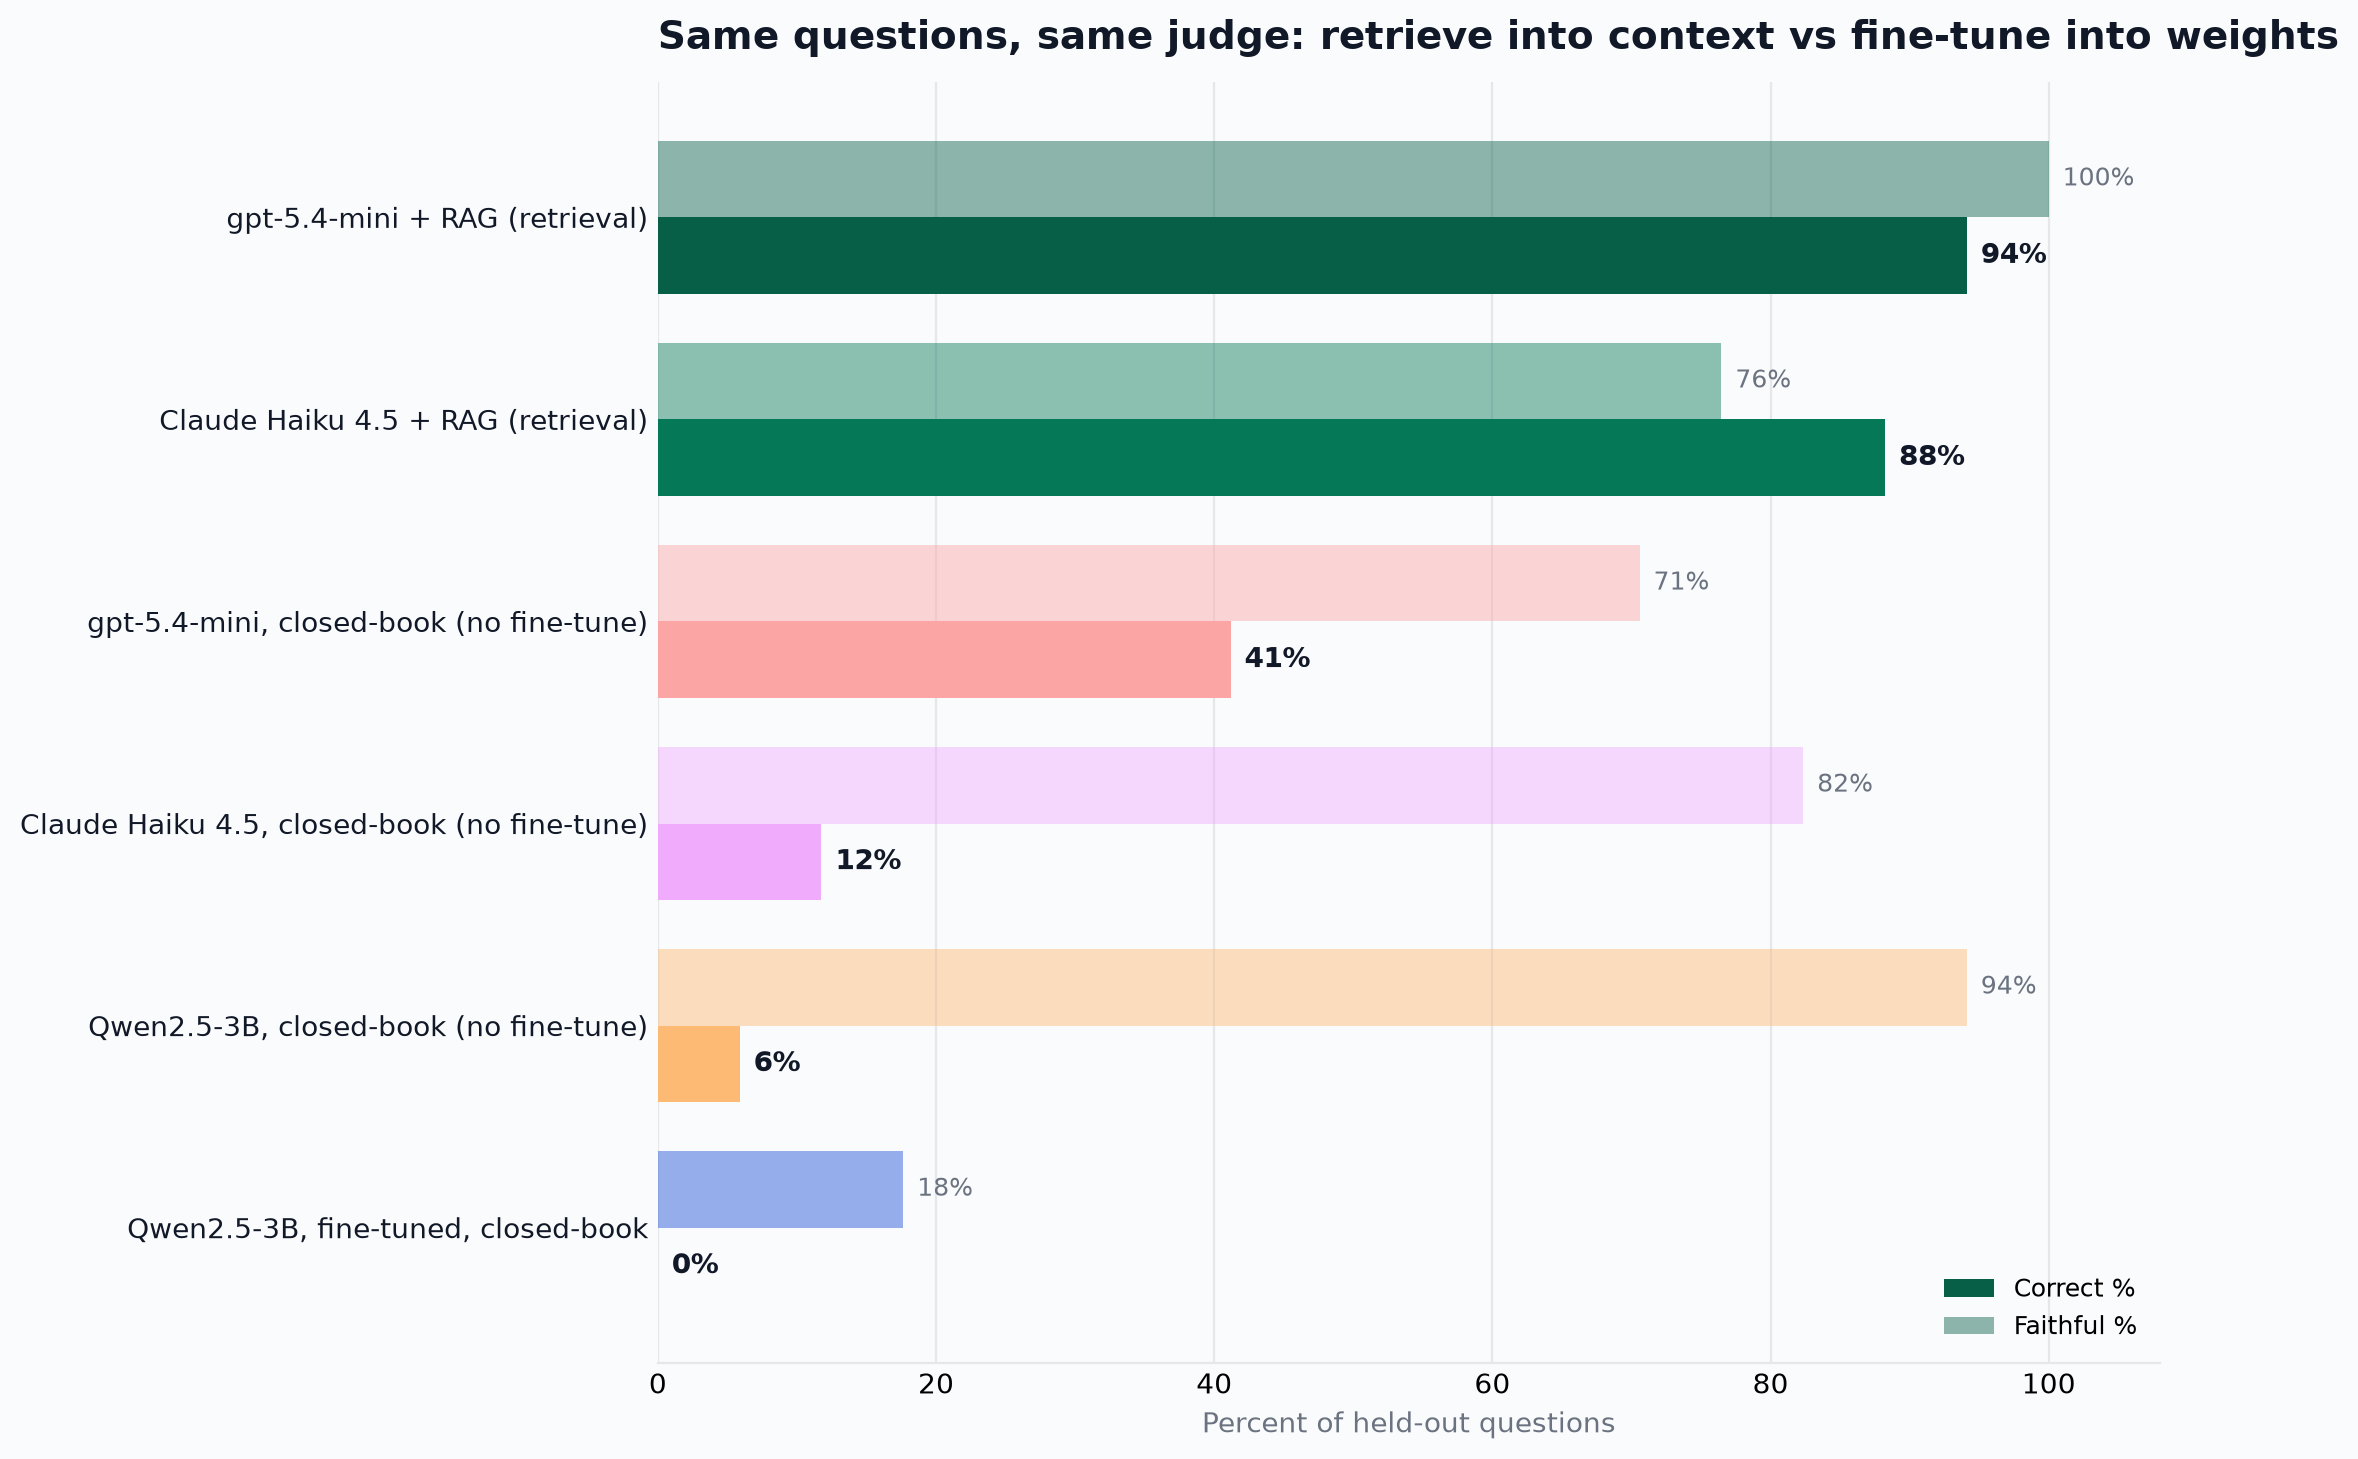
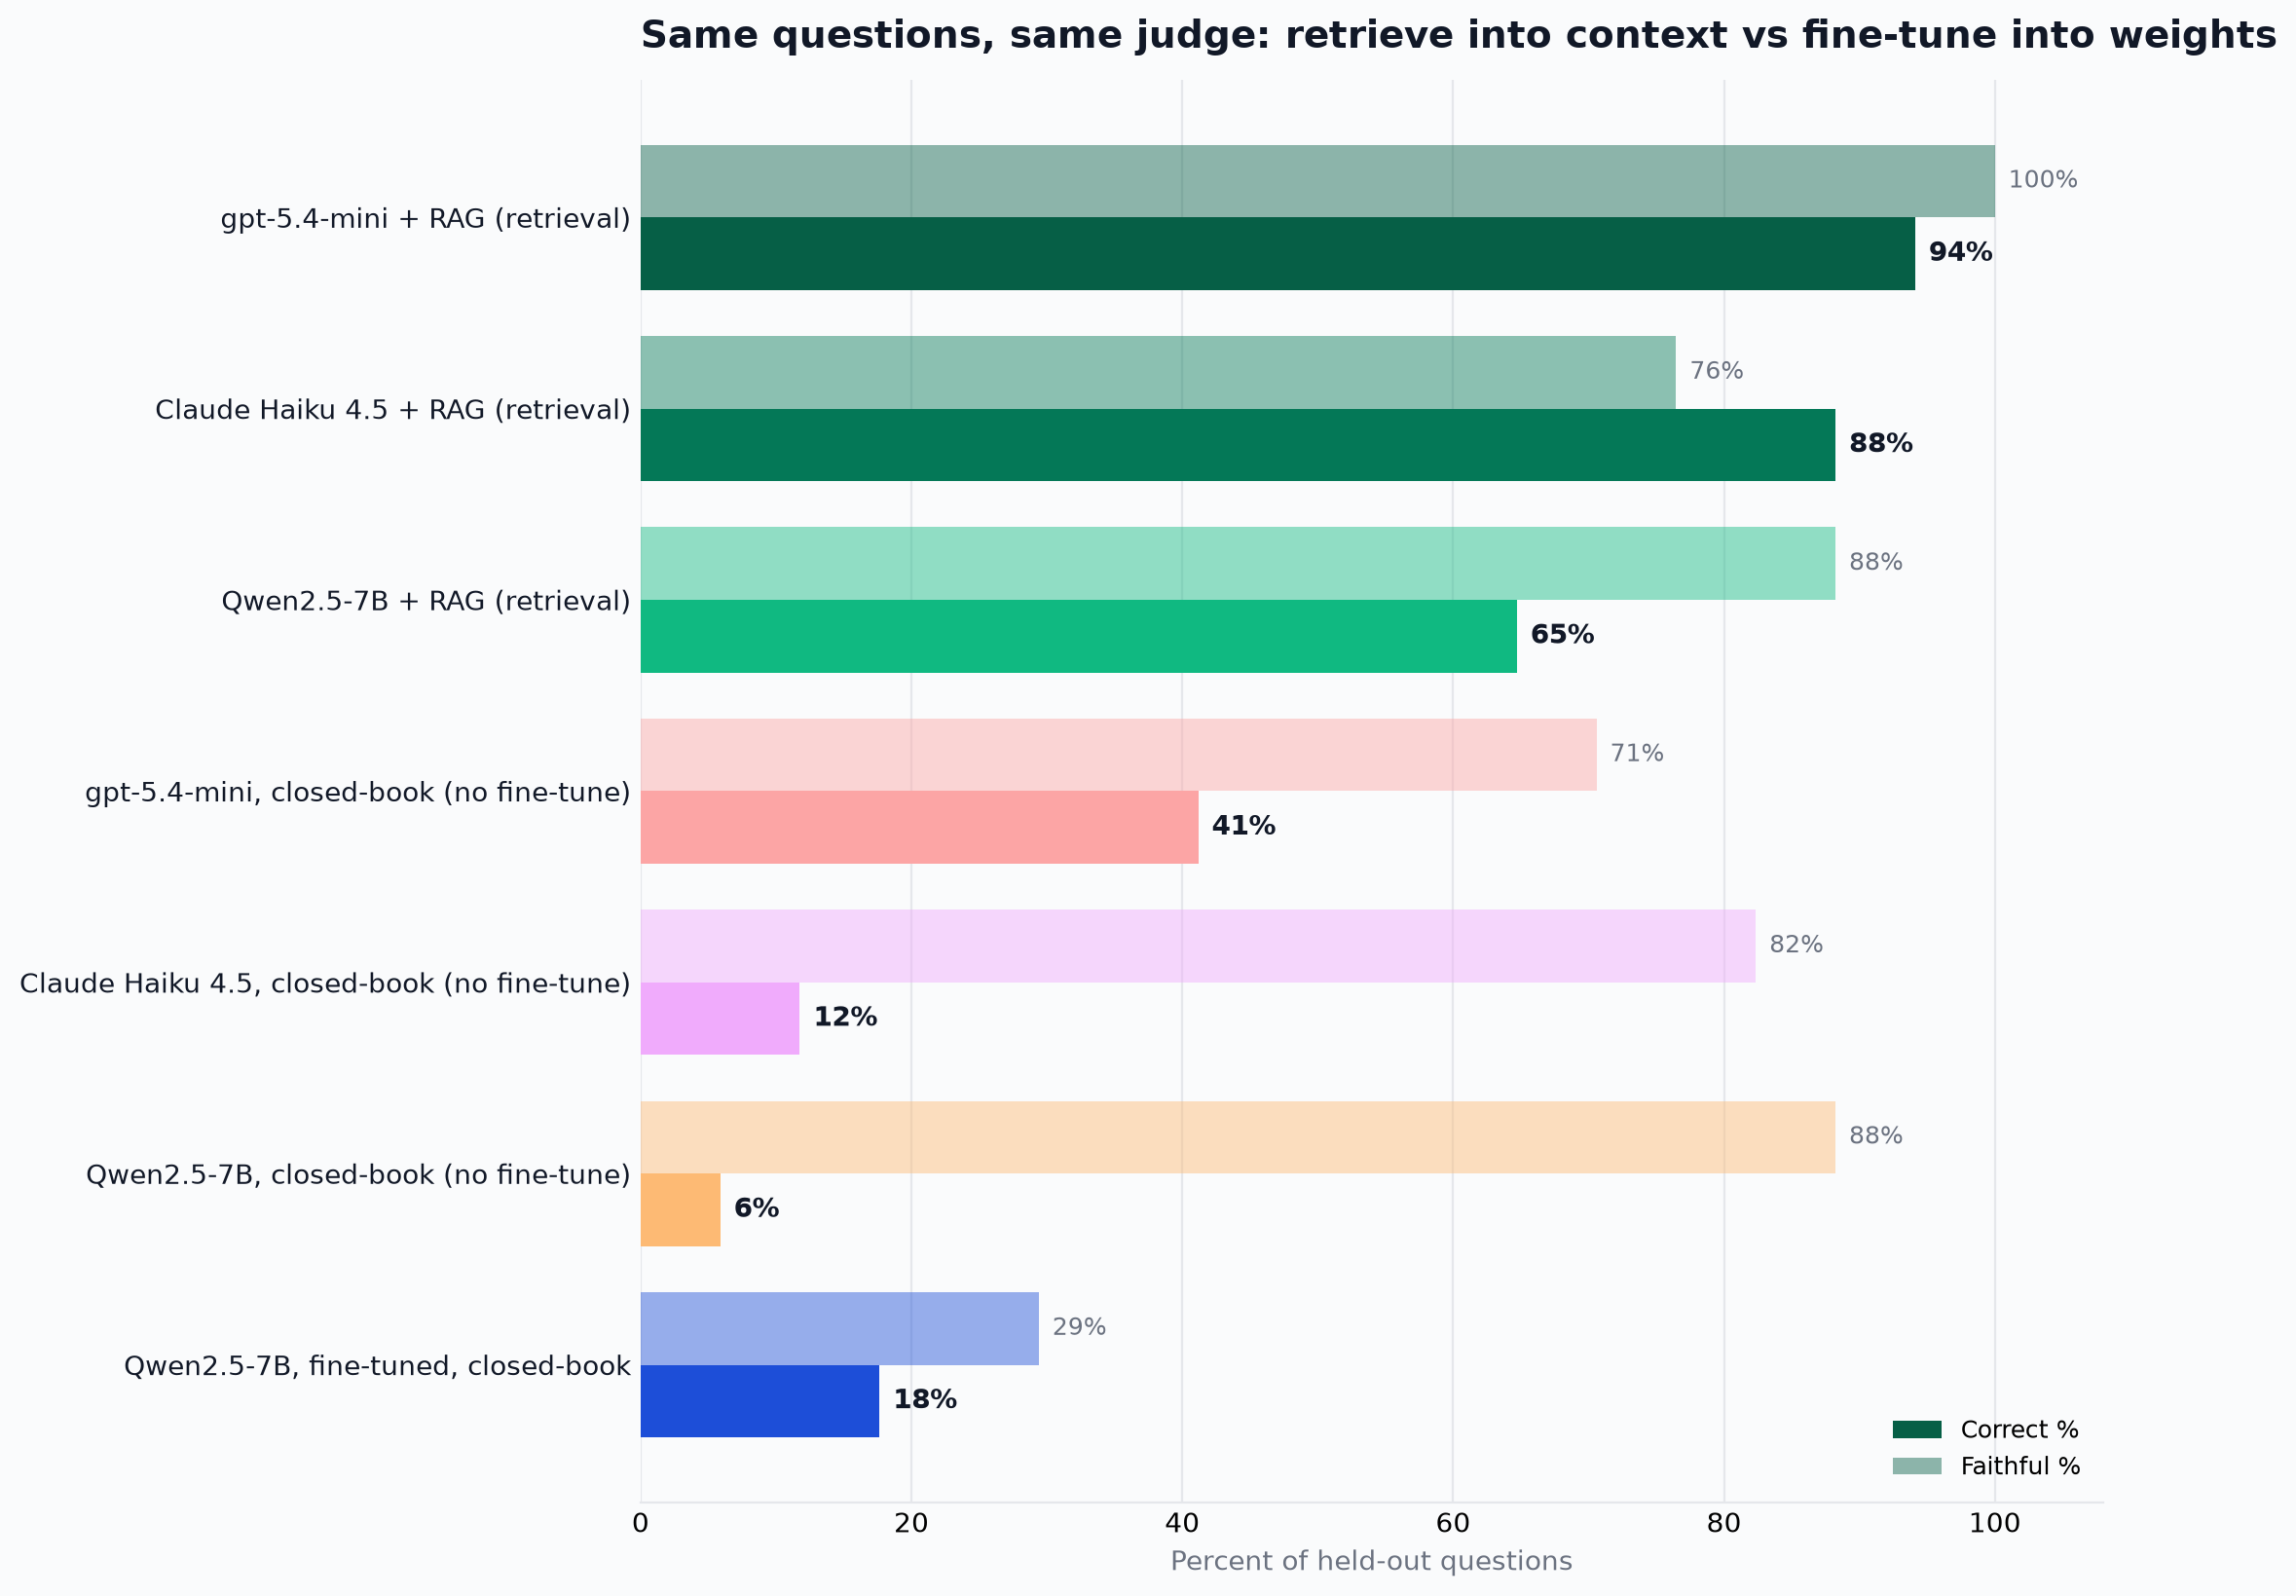
Use Qwen2.5-7B as the open model; add Qwen+RAG condition
3B was too weak to extract from long retrieved context (abstained). 7B is a fair open-model reader: RAG lifts it 6% to 65%. Fine-tuned closed-book still collapses faithfulness 88% to 29%. Adds the local_rag condition and shares the RAG-context helper.

diff --git a/eval_all.py b/eval_all.py
@@ -92,9 +92,64 @@ def gen_mlx(adapter):
              {"role": "user", "content": q["question"]}],
             tokenize=False, add_generation_prompt=True)
         try:
-            return generate(model, tok, prompt=prompt, max_tokens=200, verbose=False).strip()
+            return generate(model, tok, prompt=prompt, max_tokens=512, verbose=False).strip()
         except TypeError:
-            return generate(model, tok, prompt, max_tokens=200).strip()
+            return generate(model, tok, prompt, max_tokens=512).strip()
+    return g
+
+
+# ---- RAG context (shared with claude_conditions.py) -------------------------
+
+# The bake-off's exact answer prompt, so any model's RAG condition mirrors it.
+RAG_PROMPT = """You are a careful financial-document QA assistant.
+Answer the question using ONLY the provided context. If the answer is not
+present in the context, reply exactly: Not in document.
+
+Be concise. When the answer is a number, include the unit and the period.
+When citing, mention the section name.
+
+Question: {question}
+Context: {context}
+Answer:"""
+
+
+def _retrieved_map(doc):
+    path = BAKEOFF / "results" / f"runs_{doc}_{RAG_CONFIG}_scored.jsonl"
+    out = {}
+    for line in path.read_text().splitlines():
+        if line.strip():
+            r = json.loads(line)
+            out[r["id"]] = r["retrieved"]
+    return out
+
+
+def _chunks(doc):
+    path = BAKEOFF / "results" / f"baseline_chunks_{doc}_{RAG_CONFIG}.jsonl"
+    return {str(c["id"]): c["text"]
+            for c in (json.loads(l) for l in path.read_text().splitlines() if l.strip())}
+
+
+def rag_context(q):
+    """Reconstruct the exact context the tuned gpt-5.4-mini RAG pipeline used."""
+    ids = _retrieved_map(q["doc"]).get(q["id"], [])
+    chunks = _chunks(q["doc"])
+    return "\n\n".join(chunks[str(i)] for i in ids if str(i) in chunks)
+
+
+def gen_mlx_rag(adapter):
+    """Local model answering WITH the same retrieved context as the RAG pipeline."""
+    from mlx_lm import generate, load
+    model, tok = load(LOCAL_BASE, adapter_path=adapter)
+
+    def g(q):
+        prompt = tok.apply_chat_template(
+            [{"role": "user", "content": RAG_PROMPT.format(
+                question=q["question"], context=rag_context(q))}],
+            tokenize=False, add_generation_prompt=True)
+        try:
+            return generate(model, tok, prompt=prompt, max_tokens=512, verbose=False).strip()
+        except TypeError:
+            return generate(model, tok, prompt, max_tokens=512).strip()
     return g
 
 
@@ -162,6 +217,8 @@ def main():
             rows = run_rag(qs)
         elif cond == "base_local":
             rows = run_generated(cond, gen_mlx(None), qs, client)
+        elif cond == "local_rag":
+            rows = run_generated(cond, gen_mlx_rag(None), qs, client)
         elif cond == "ft_local":
             rows = run_generated(cond, gen_mlx(LOCAL_ADAPTER), qs, client)
         elif cond == "base_azure":

diff --git a/claude_conditions.py b/claude_conditions.py
@@ -23,47 +23,14 @@ from config import BAKEOFF, CLOSED_BOOK_SYSTEM, RAG_CONFIG, WORK
 CLAUDE_MODEL = os.environ.get("CLAUDE_MODEL", "anthropic/claude-haiku-4.5")
 RESULTS = WORK / "results.json"
 
-# The bake-off's exact answer prompt, so claude_rag mirrors the RAG pipeline.
-RAG_PROMPT = """You are a careful financial-document QA assistant.
-Answer the question using ONLY the provided context. If the answer is not
-present in the context, reply exactly: Not in document.
-
-Be concise. When the answer is a number, include the unit and the period.
-When citing, mention the section name.
-
-Question: {question}
-Context: {context}
-Answer:"""
+# RAG prompt and context reconstruction are shared with eval_all.py.
+RAG_PROMPT = E.RAG_PROMPT
+rag_context = E.rag_context
 
 
 def openrouter() -> OpenAI:
     key = (Path.home() / ".secrets" / "openrouter_api_key").read_text().strip()
     return OpenAI(base_url="https://openrouter.ai/api/v1", api_key=key)
-
-
-def _retrieved_map(doc: str) -> dict:
-    path = BAKEOFF / "results" / f"runs_{doc}_{RAG_CONFIG}_scored.jsonl"
-    out = {}
-    for line in path.read_text().splitlines():
-        if line.strip():
-            r = json.loads(line)
-            out[r["id"]] = r["retrieved"]
-    return out
-
-
-def _chunks(doc: str) -> dict:
-    # Normalize ids to str: the chunk store and the runs' retrieved indices can
-    # be int or str across files, so key everything by str to match reliably.
-    path = BAKEOFF / "results" / f"baseline_chunks_{doc}_{RAG_CONFIG}.jsonl"
-    return {str(c["id"]): c["text"]
-            for c in (json.loads(l) for l in path.read_text().splitlines() if l.strip())}
-
-
-def rag_context(q: dict) -> str:
-    """Reconstruct the exact context the tuned gpt-5.4-mini RAG pipeline used."""
-    ids = _retrieved_map(q["doc"]).get(q["id"], [])
-    chunks = _chunks(q["doc"])
-    return "\n\n".join(chunks[str(i)] for i in ids if str(i) in chunks)
 
 
 def gen_closedbook(client):

diff --git a/make_report.py b/make_report.py
@@ -24,16 +24,17 @@ GRID = "#e5e7eb"
 LABELS = {
     "rag":         "gpt-5.4-mini + RAG (retrieval)",
     "claude_rag":  "Claude Haiku 4.5 + RAG (retrieval)",
+    "local_rag":   "Qwen2.5-7B + RAG (retrieval)",
     "base_azure":  "gpt-5.4-mini, closed-book (no fine-tune)",
     "claude_base": "Claude Haiku 4.5, closed-book (no fine-tune)",
     "ft_azure":    "gpt-5.4-mini, fine-tuned, closed-book",
-    "base_local":  "Qwen2.5-3B, closed-book (no fine-tune)",
-    "ft_local":    "Qwen2.5-3B, fine-tuned, closed-book",
+    "base_local":  "Qwen2.5-7B, closed-book (no fine-tune)",
+    "ft_local":    "Qwen2.5-7B, fine-tuned, closed-book",
 }
-ORDER = ["rag", "claude_rag", "base_azure", "claude_base", "ft_azure", "base_local", "ft_local"]
+ORDER = ["rag", "claude_rag", "local_rag", "base_azure", "claude_base", "ft_azure", "base_local", "ft_local"]
 COLORS = {
-    "rag": "#065f46", "claude_rag": "#047857", "base_azure": "#fca5a5",
-    "claude_base": "#f0abfc", "ft_azure": "#2563eb",
+    "rag": "#065f46", "claude_rag": "#047857", "local_rag": "#10b981",
+    "base_azure": "#fca5a5", "claude_base": "#f0abfc", "ft_azure": "#2563eb",
     "base_local": "#fdba74", "ft_local": "#1d4ed8",
 }
 

diff --git a/config.py b/config.py
@@ -15,8 +15,9 @@ HERE = Path(__file__).resolve().parent
 BAKEOFF = HERE / "bakeoff"
 WORK = HERE / "work"
 
-# Local (free, Apple Silicon) base. 48 GB M4 Pro can also run the 7B-4bit.
-LOCAL_BASE = os.environ.get("LOCAL_BASE", "mlx-community/Qwen2.5-3B-Instruct-4bit")
+# Local (free, Apple Silicon) base. 7B-4bit runs comfortably on a 48 GB M4 Pro
+# and is a far better grounded extractor than 3B (3B abstains on long context).
+LOCAL_BASE = os.environ.get("LOCAL_BASE", "mlx-community/Qwen2.5-7B-Instruct-4bit")
 LOCAL_ADAPTER = str(WORK / "mlx_adapter")
 
 # Hosted (paid) base: the SAME model the RAG side used, for an exact comparison.

diff --git a/README.md b/README.md
@@ -12,22 +12,23 @@ This is the experiment behind the write-up. The retrieval pipelines it compares 
 |---|---|---|
 | gpt-5.4-mini + RAG | 94% | 100% |
 | Claude Haiku 4.5 + RAG | 88% | 76% |
+| Qwen2.5-7B + RAG | 65% | 88% |
 | gpt-5.4-mini, closed-book | 41% | 71% |
 | Claude Haiku 4.5, closed-book | 12% | 82% |
-| Qwen2.5-3B, closed-book | 6% | 94% |
-| Qwen2.5-3B, fine-tuned, closed-book | 0% | 18% |
+| Qwen2.5-7B, closed-book | 6% | 88% |
+| Qwen2.5-7B, fine-tuned, closed-book | 18% | 29% |
 
 Read-out:
 
-- RAG lifts every model on the same retrieved context: gpt-5.4-mini 41 to 94, Claude 12 to 88.
-- Fine-tuning the small model closed-book on the documents made it **worse**: 0% correct, faithfulness collapsed from 94% to 18%. It memorised the 37 training answers and fabricated on held-out questions, the failure Gekhman et al. (arxiv 2405.05904) describe.
+- RAG lifts every model on the same retrieved context: gpt-5.4-mini 41 to 94, Claude 12 to 88, and the open Qwen2.5-7B 6 to 65. The knowledge was never in the weights; it was in the documents.
+- Fine-tuning the open model closed-book on the documents made it **worse, not better**: correctness stayed low (18%) while faithfulness collapsed from 88% to 29%. It memorised the 37 training answers and fabricated confidently on held-out questions, the failure Gekhman et al. (arxiv 2405.05904) describe.
 - There is no fine-tuned-Claude row because Anthropic does not offer fine-tuning of Claude. For Claude, RAG is the only knowledge lever.
 
 The training set is deliberately tiny (37 questions). That is the point: knowledge fine-tuning needs a large curated corpus to even compete with RAG, and with a small set it does damage. Fine-tune for behaviour and format; retrieve for what the model needs to know.
 
 ## What it does
 
-The fine-tune trains a model closed-book (question to ground-truth answer, no context) on 37 of the 54 finance questions, then scores the 17 held-out questions across six conditions, all graded by the same gpt-5.4-mini judge on correctness and faithfulness. RAG uses the same retrieved context the bake-off's tuned pipeline used. Generation for the open model is a local LoRA via MLX on Apple Silicon; the hosted models go through Azure OpenAI (judge and gpt-5.4-mini) and OpenRouter (Claude).
+The fine-tune trains a model closed-book (question to ground-truth answer, no context) on 37 of the 54 finance questions, then scores the 17 held-out questions across seven conditions, all graded by the same gpt-5.4-mini judge on correctness and faithfulness. RAG uses the same retrieved context the bake-off's tuned pipeline used, so any model's RAG condition is directly comparable. The open model is Qwen2.5-7B-Instruct, run locally (LoRA fine-tune and inference) via MLX on Apple Silicon; the hosted models go through Azure OpenAI (judge and gpt-5.4-mini) and OpenRouter (Claude).
 
 ## Files
 

diff --git a/work/report.md b/work/report.md
@@ -6,7 +6,8 @@ Held-out test set: 17 questions. Judge: gpt-5.4-mini (correct + faithful), same 
 |---|---|---|
 | gpt-5.4-mini + RAG (retrieval) | 16/17 (94%) | 17/17 (100%) |
 | Claude Haiku 4.5 + RAG (retrieval) | 15/17 (88%) | 13/17 (76%) |
+| Qwen2.5-7B + RAG (retrieval) | 11/17 (65%) | 15/17 (88%) |
 | gpt-5.4-mini, closed-book (no fine-tune) | 7/17 (41%) | 12/17 (71%) |
 | Claude Haiku 4.5, closed-book (no fine-tune) | 2/17 (12%) | 14/17 (82%) |
-| Qwen2.5-3B, closed-book (no fine-tune) | 1/17 (6%) | 16/17 (94%) |
-| Qwen2.5-3B, fine-tuned, closed-book | 0/17 (0%) | 3/17 (18%) |
+| Qwen2.5-7B, closed-book (no fine-tune) | 1/17 (6%) | 15/17 (88%) |
+| Qwen2.5-7B, fine-tuned, closed-book | 3/17 (18%) | 5/17 (29%) |